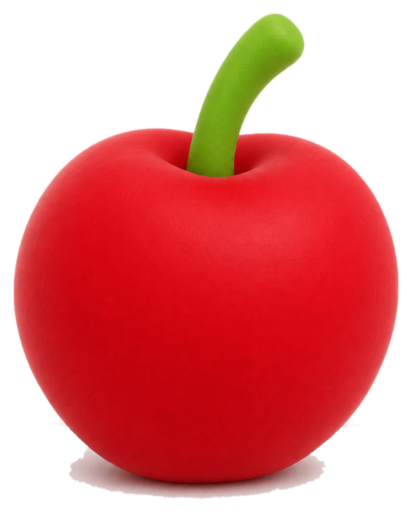
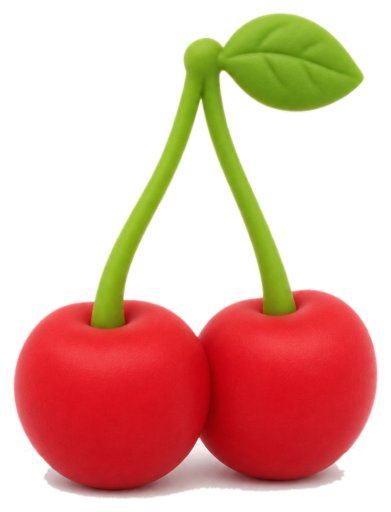
點心屋對齊真圖的輪廓、櫻桃重畫；禮物剛跳出來不會被點掉的測試

diff --git a/src/domain/bakery.ts b/src/domain/bakery.ts
@@ -34,14 +34,14 @@ interface Ellipse {
   ry: number
 }
 
-/** 每種底座大概的形狀（對齊圖裡點心的輪廓，不必很準）。冰淇淋是上面一球 + 下面的甜筒 */
+/** 每種底座大概的形狀（對齊 public/art/ui-base-*.png 裡點心的輪廓，不含盤子）。冰淇淋是上面一球 + 下面的甜筒 */
 const SHAPES: Record<BakeryBaseId, readonly Ellipse[]> = {
-  cake: [{ cx: 50, cy: 52, rx: 46, ry: 38 }],
+  cake: [{ cx: 50, cy: 42, rx: 40, ry: 33 }],
   icecream: [
-    { cx: 50, cy: 34, rx: 38, ry: 32 },
-    { cx: 50, cy: 70, rx: 22, ry: 28 },
+    { cx: 50, cy: 28, rx: 33, ry: 27 },
+    { cx: 50, cy: 72, rx: 13, ry: 25 },
   ],
-  pancake: [{ cx: 50, cy: 54, rx: 46, ry: 36 }],
+  pancake: [{ cx: 50, cy: 40, rx: 34, ry: 33 }],
 }
 
 /** 放得有點偏也算（手指比目標大）：在輪廓外這個倍數以內的，會吸回輪廓上 */
